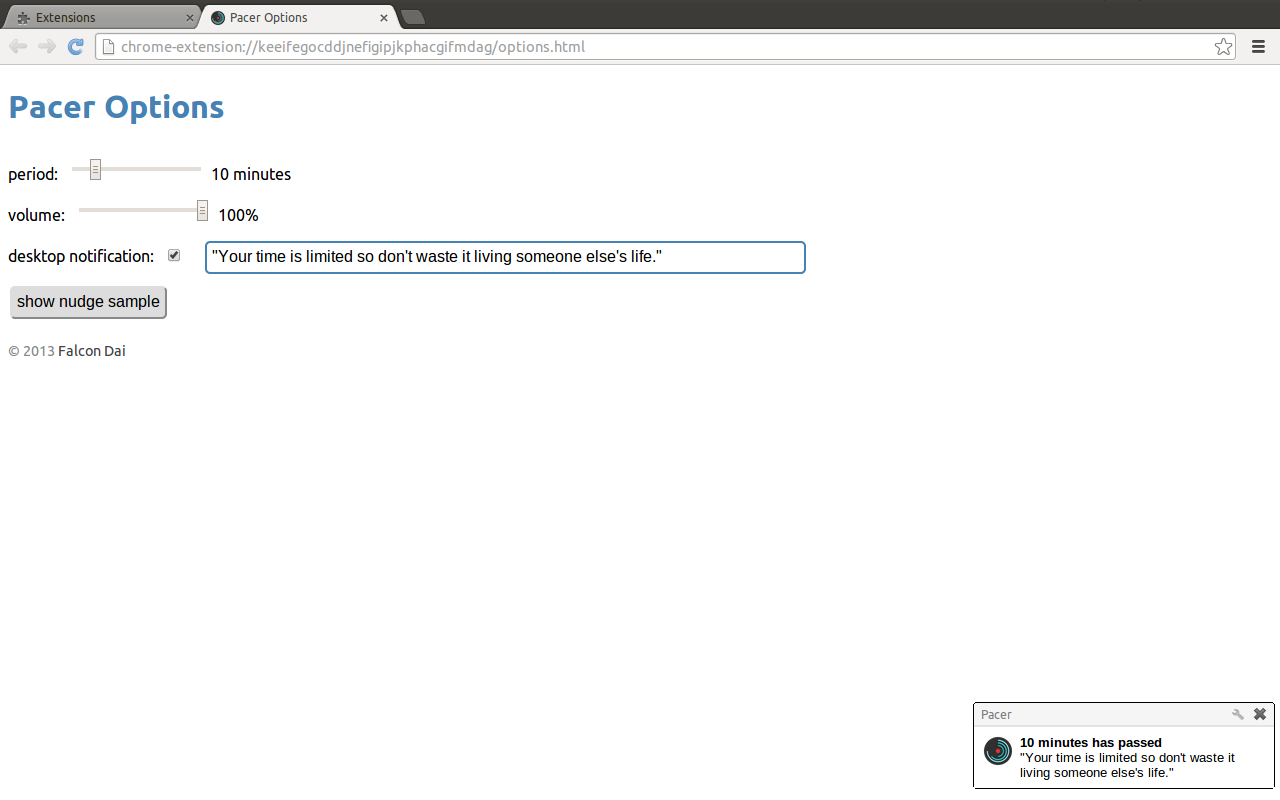
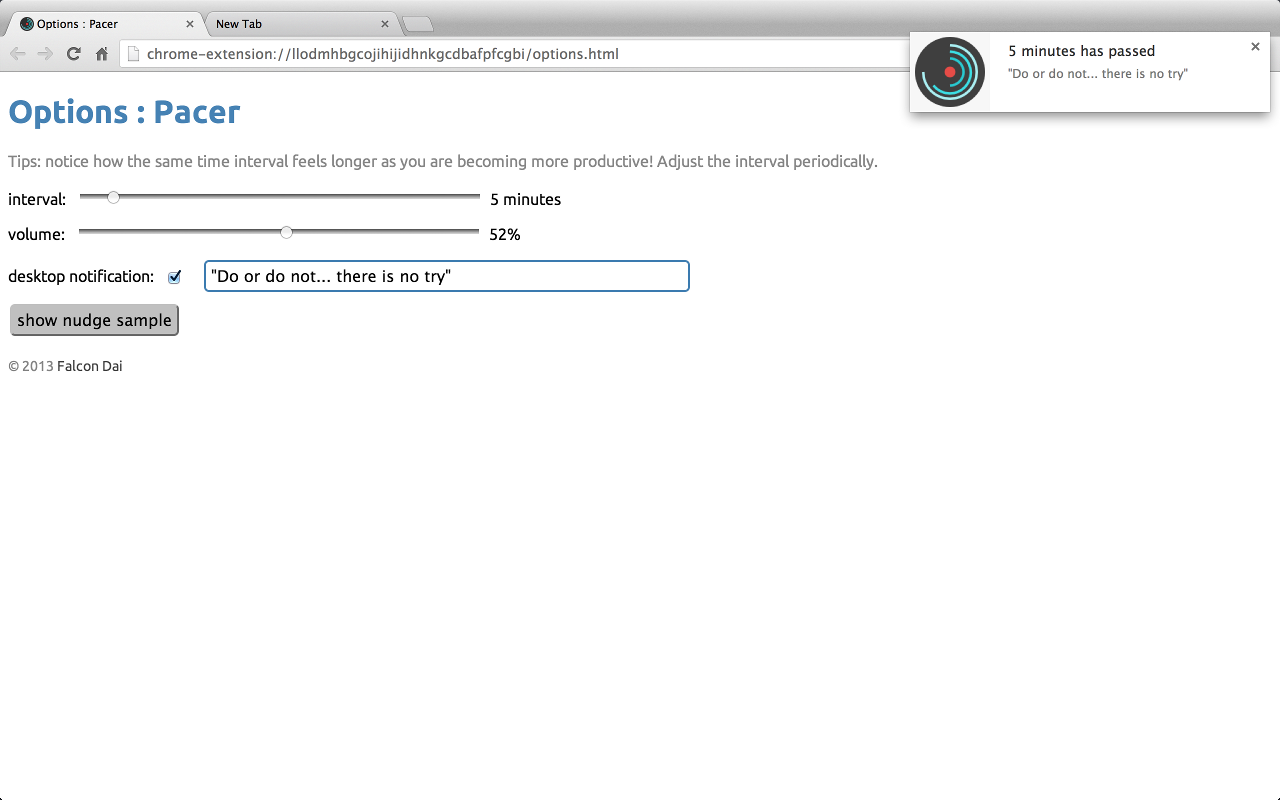
minor UI mod, OS X bug fix

diff --git a/options.html b/options.html
@@ -1,12 +1,20 @@
 <!DOCTYPE html>
 <html>
   <head>
-    <title>Pacer Options</title>
+    <title>Options : Pacer</title>
     <link rel="icon" href="/assets/image/logo.png"><style type="text/css">body {
   font-family: Ubuntu, Helvetica, sans-serif;
 }
 h1 {
   color: #4682b4;
+}
+.tips {
+  margin: 10px auto;
+  color: #888;
+  transition: color 0.2s ease-in-out;
+}
+.tips:hover {
+  color: #000;
 }
 input {
   margin: 10px;
@@ -16,9 +24,17 @@ input[type="text"] {
   border-radius: 5px;
   border: 2px solid #4682b4;
   padding: 5px;
+  transition: box-shadow 0.3s ease-in-out;
 }
 input[type="text"]:focus {
+  box-shadow: 0 0 10px rgba(117,199,240,0.8);
   outline: none;
+}
+input[type="text"]:disabled {
+  background-color: #ebebe4;
+}
+input[type="range"] {
+  width: 400px;
 }
 button {
   font-size: 1em;
@@ -40,8 +56,9 @@ button {
 </style>
   </head>
   <body>
-    <h1>Pacer Options</h1>
-    <div>period: 
+    <h1>Options : Pacer</h1>
+    <div class="tips">Tips: notice how the same time interval feels longer as you are becoming more productive! Adjust the interval periodically.</div>
+    <div>interval: 
       <input type="range" min="1" max="60" step="1" value="5" id="period"><span id="period-indicator">5 minutes</span>
     </div>
     <div>volume: 

diff --git a/background.js b/background.js
@@ -33,7 +33,7 @@ chrome.runtime.onInstalled.addListener(function () {
 	console.log('installed');
 	localStorage.setItem('period', localStorage.getItem('period') || 10);
 	localStorage.setItem('volume', localStorage.getItem('volume') || 0.5);
-	localStorage.setItem('show notifications', localStorage.getItem('show notifications') || false);
+	localStorage.setItem('show notifications', localStorage.getItem('show notifications') || 'false');
 	localStorage.setItem('quote', localStorage.getItem('quote') || '');
 
 	chrome.tabs.create({
@@ -41,7 +41,7 @@ chrome.runtime.onInstalled.addListener(function () {
 	});
 
 	chrome.alarms.create('pace', {
-    periodInMinutes: localStorage.getItem('period')
+    periodInMinutes: +localStorage.getItem('period')
   });
 });
 
